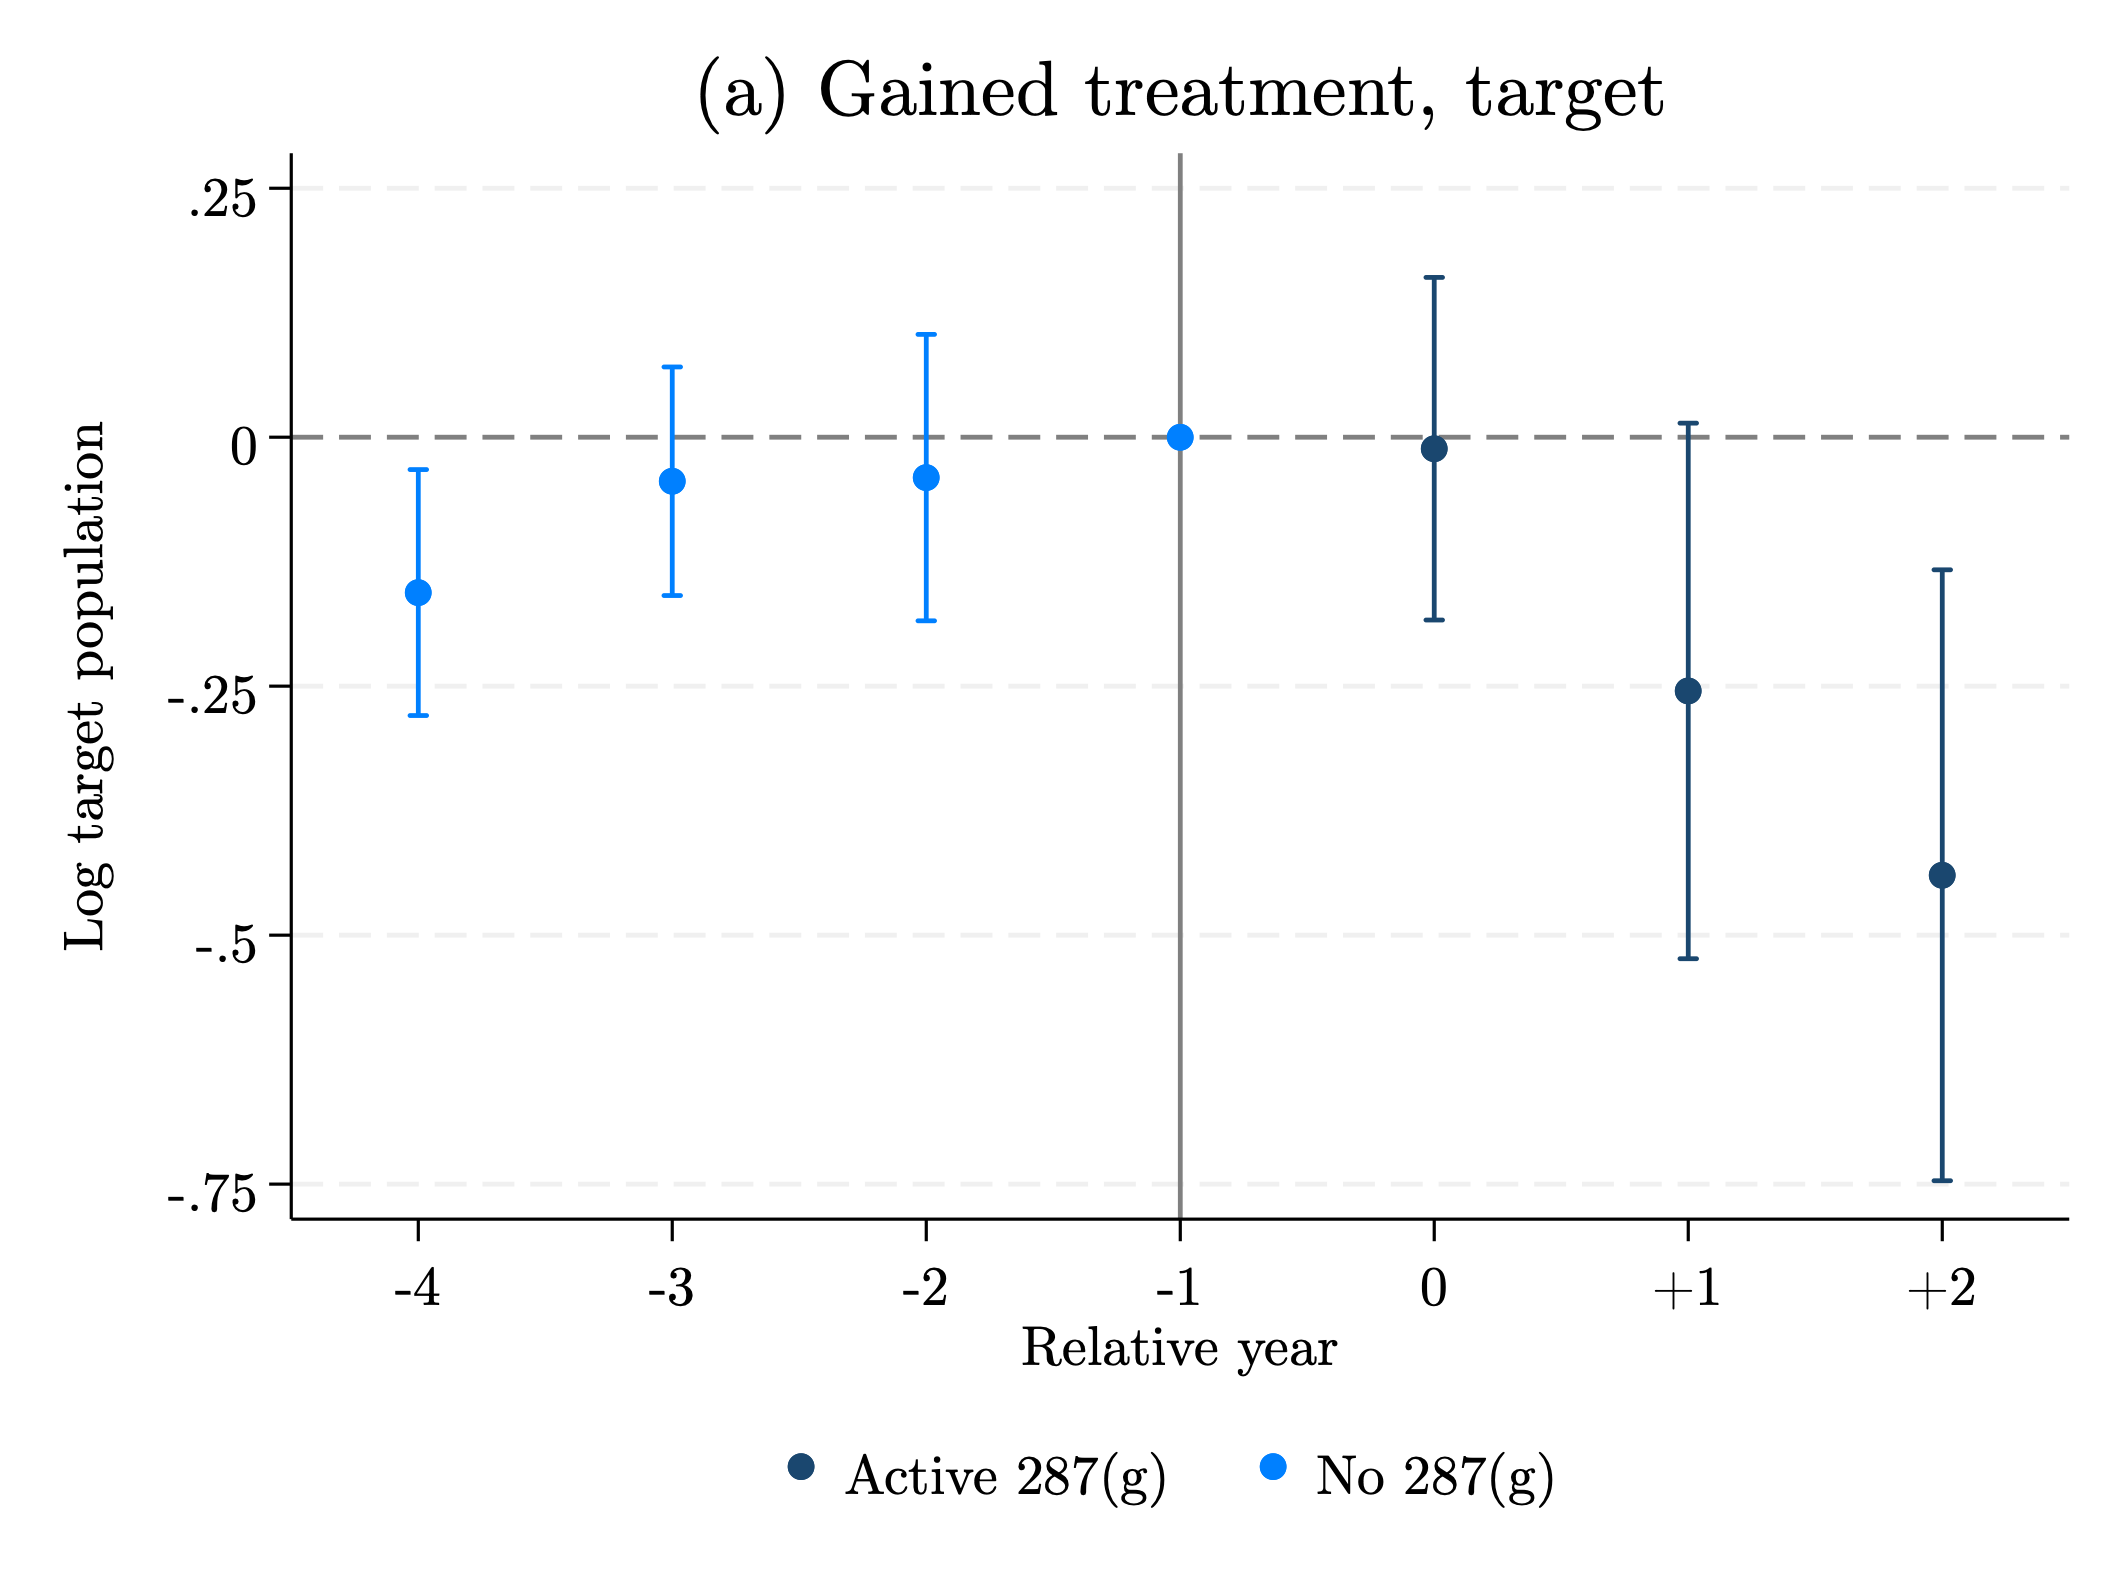
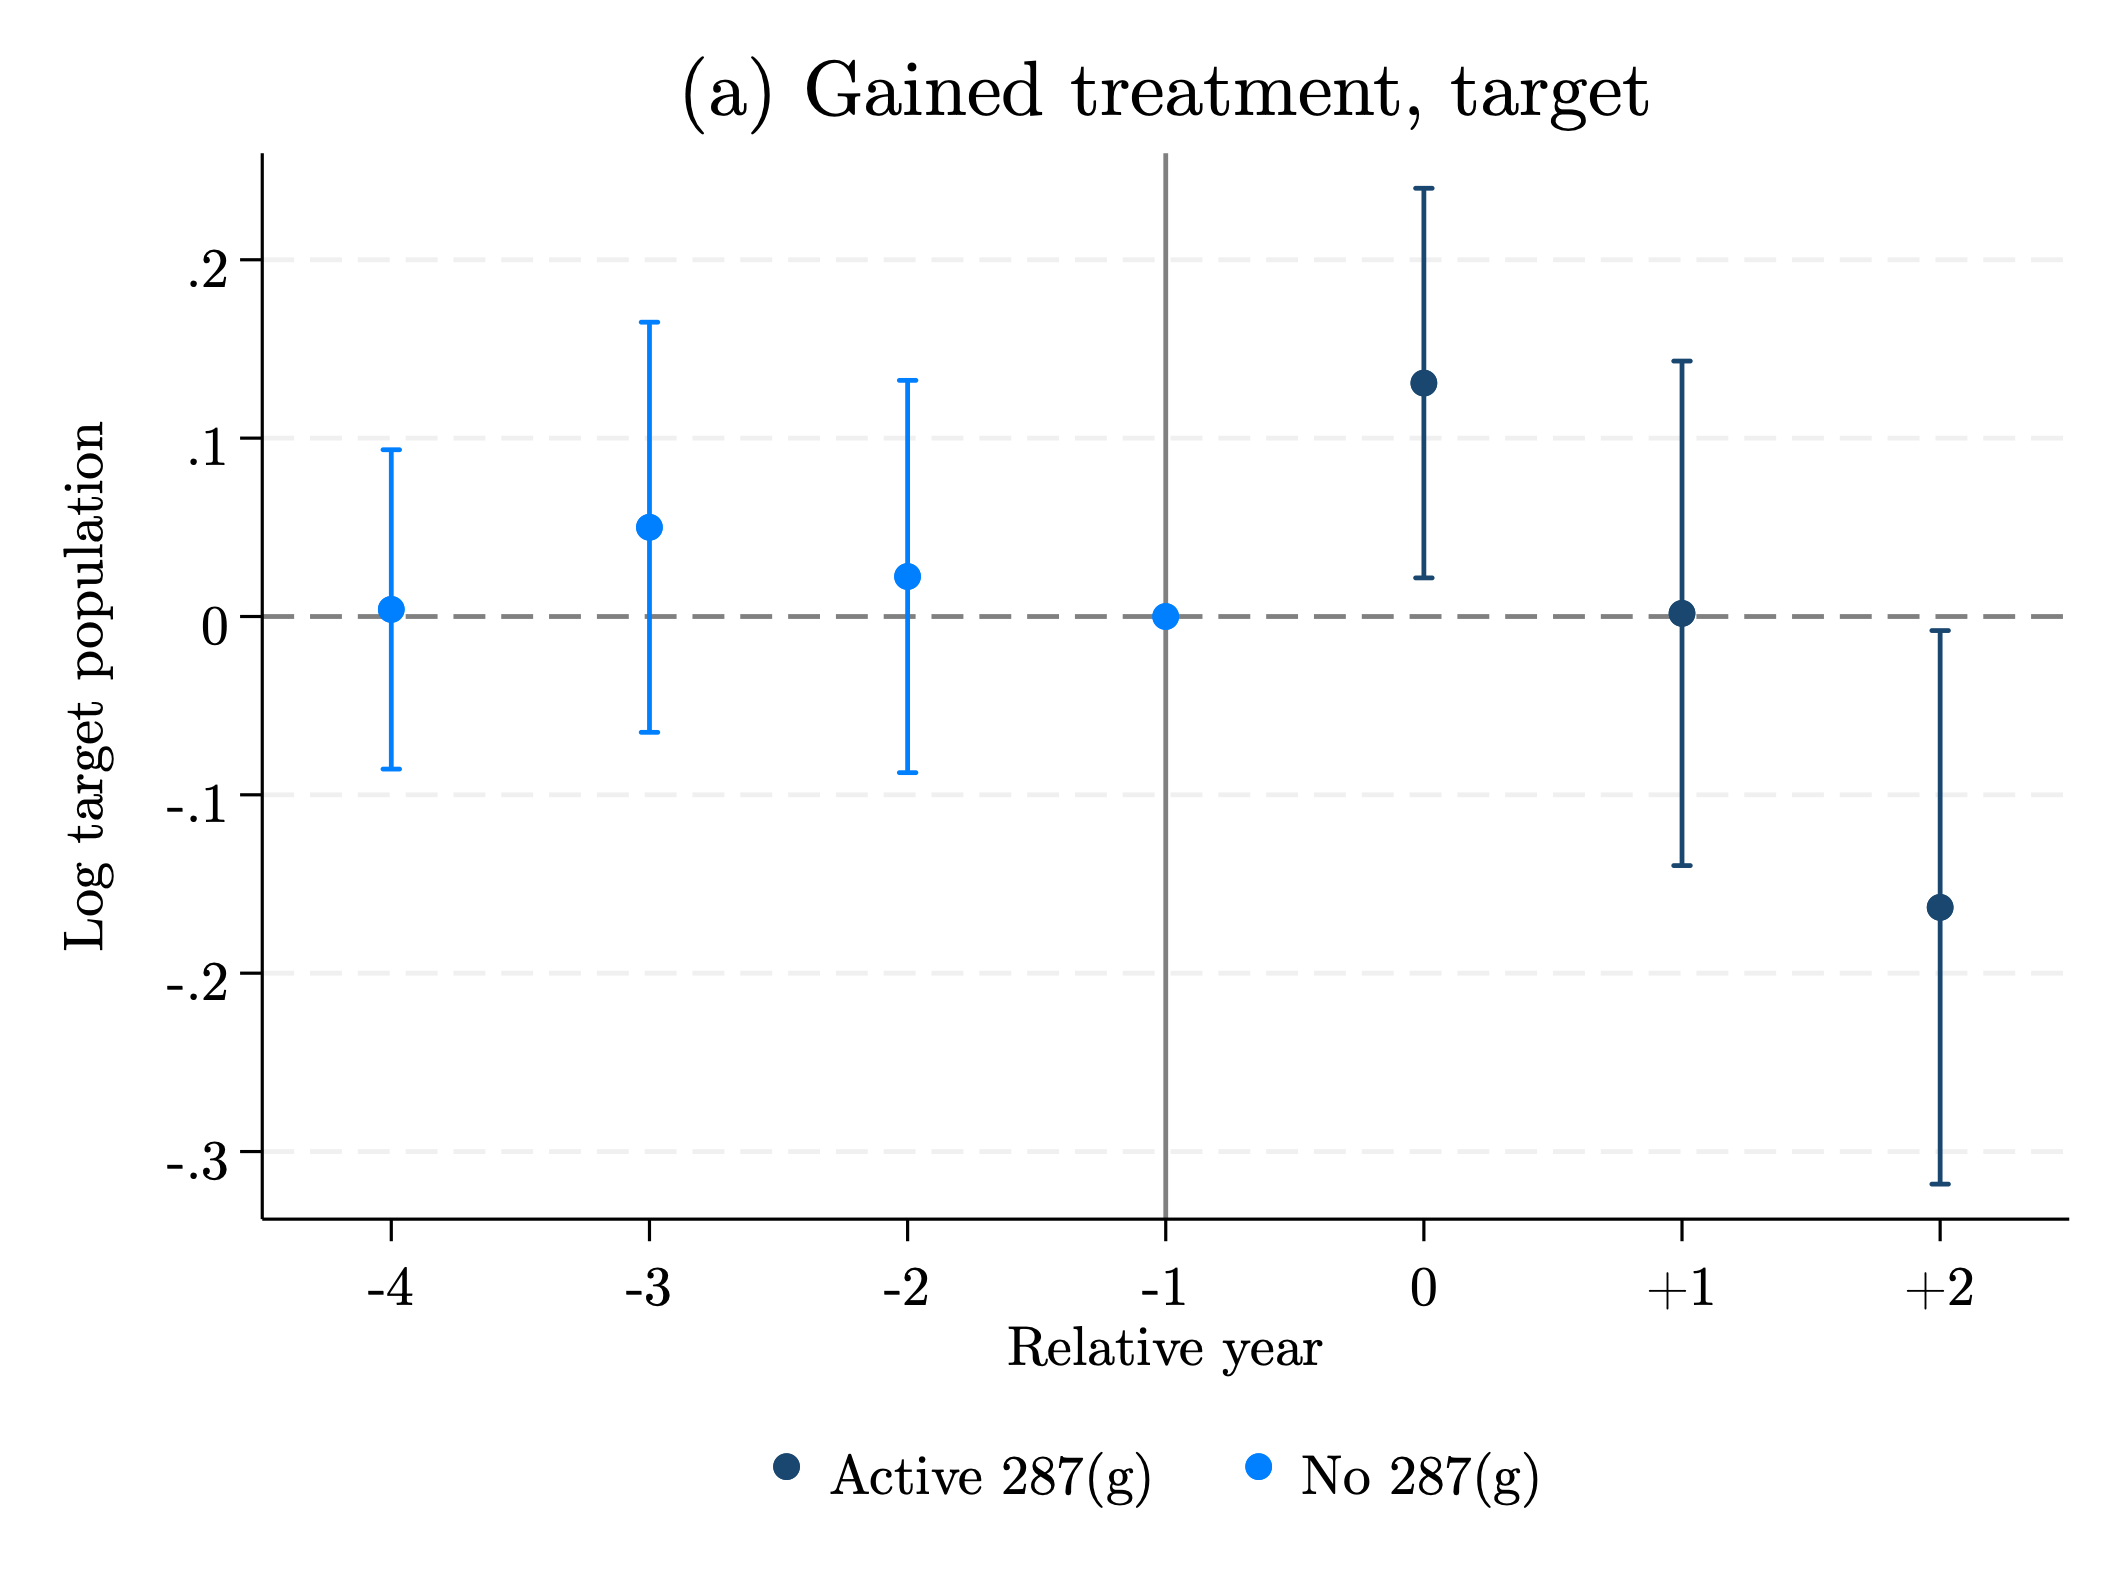
giving up

diff --git a/output/final/balancetable.tex b/output/final/balancetable.tex
@@ -6,43 +6,43 @@
  & (1) & (2) & (3)  \\
 \midrule 
  \textbf{Mobility} & & &   \\
- Moved puma  & 0.12  & 0.13  & -0.01 \\
- & (0.01) & (0.00) & (0.01)\\
- Moved state  & 0.10  & 0.10  & 0.00 \\
- & (0.01) & (0.00) & (0.01)\\
- Moved from abroad  & 0.08  & 0.08  & 0.01 \\
- & (0.00) & (0.00) & (0.01)\\
- \textbf{Demographics and education} & & &   \\
- Age  & 26.34  & 26.14  & 0.19 \\
- & (0.10) & (0.07) & (0.12)\\
- Number of children  & 0.23  & 0.21  & 0.02* \\
- & (0.01) & (0.01) & (0.01)\\
- Race: White  & 0.61  & 0.56  & 0.05*** \\
- & (0.01) & (0.01) & (0.01)\\
- Race: Black  & 0.01  & 0.02  & -0.01*** \\
+ Moved puma  & 0.06  & 0.07  & -0.02*** \\
  & (0.00) & (0.00) & (0.00)\\
- High School  & 0.42  & 0.48  & -0.05*** \\
+ Moved state  & 0.04  & 0.05  & -0.01*** \\
+ & (0.00) & (0.00) & (0.00)\\
+ Moved from abroad  & 0.03  & 0.03  & -0.00 \\
+ & (0.00) & (0.00) & (0.00)\\
+ \textbf{Demographics and education} & & &   \\
+ Age  & 30.05  & 29.59  & 0.46*** \\
+ & (0.05) & (0.04) & (0.07)\\
+ Number of children  & 0.57  & 0.50  & 0.07*** \\
  & (0.01) & (0.01) & (0.01)\\
- Poor English  & 0.70  & 0.67  & 0.03*** \\
- & (0.01) & (0.01) & (0.01)\\
- In School  & 0.08  & 0.08  & -0.01* \\
+ Race: White  & 0.59  & 0.56  & 0.03*** \\
  & (0.00) & (0.00) & (0.01)\\
+ Race: Black  & 0.01  & 0.01  & -0.01*** \\
+ & (0.00) & (0.00) & (0.00)\\
+ High School  & 0.36  & 0.40  & -0.04*** \\
+ & (0.00) & (0.00) & (0.01)\\
+ Poor English  & 0.61  & 0.59  & 0.02*** \\
+ & (0.00) & (0.00) & (0.01)\\
+ In School  & 0.03  & 0.04  & -0.01*** \\
+ & (0.00) & (0.00) & (0.00)\\
  \textbf{Employment and housing} & & &   \\
- Employed  & 0.86  & 0.83  & 0.03*** \\
- & (0.01) & (0.00) & (0.01)\\
- Weeks worked  & 40.52  & 40.94  & -0.42 \\
- & (0.86) & (0.62) & (1.06)\\
- Usual weekly hours worked  & 36.23  & 34.77  & 1.45*** \\
- & (0.25) & (0.19) & (0.32)\\
- Wage income  & 21,723.46  & 21,708.66  & 14.80 \\
- & (277.27) & (222.14) & (355.32)\\
- Owns a home  & 0.15  & 0.16  & -0.01 \\
- & (0.01) & (0.00) & (0.01)\\
- Rent price  & 982.75  & 1,046.10  & -63.35*** \\
- & (8.23) & (7.40) & (11.07)\\
- Mortgage price  & 823.48  & 928.08  & -104.60** \\
- & (34.34) & (25.67) & (42.90)\\
-Sample size & 4,897 & 9,219 & \\
+ Employed  & 0.89  & 0.87  & 0.02*** \\
+ & (0.00) & (0.00) & (0.00)\\
+ Weeks worked  & 42.80  & 43.06  & -0.26 \\
+ & (0.58) & (0.42) & (0.71)\\
+ Usual weekly hours worked  & 37.44  & 36.87  & 0.58*** \\
+ & (0.12) & (0.11) & (0.16)\\
+ Wage income  & 23,089.59  & 23,692.89  & -603.30** \\
+ & (249.06) & (154.70) & (293.21)\\
+ Owns a home  & 0.19  & 0.18  & 0.00 \\
+ & (0.00) & (0.00) & (0.00)\\
+ Rent price  & 977.44  & 1,021.12  & -43.68*** \\
+ & (4.53) & (4.51) & (6.39)\\
+ Mortgage price  & 863.37  & 902.13  & -38.76* \\
+ & (16.03) & (15.44) & (22.26)\\
+Sample size & 16,654 & 25,147 & \\
 \bottomrule
 \bottomrule
 \\

diff --git a/output/final/logtargetpop_did_prop.tex b/output/final/logtargetpop_did_prop.tex
@@ -4,15 +4,15 @@
  & \multicolumn{2}{c}{Target population} & \multicolumn{2}{c}{Placebo population}  \\
 Log population & (1) & (2)  & (3) & (4) \\
 \midrule 
- Gain treatment & -0.0386 & -0.0676 & 0.2129 & 0.1881 \\
- & (0.0832) & (0.0834) & (0.1604) & (0.1580) \\
- Lose treatment & 0.1357** & 0.1327** & -0.1645** & -0.1699** \\
- & (0.0539) & (0.0524) & (0.0691) & (0.0695) \\
+ Gain treatment & 0.0145 & 0.0005 & 0.1877 & 0.1550 \\
+ & (0.1681) & (0.1680) & (0.1305) & (0.1296) \\
+ Lose treatment & -0.0095 & 0.0023 & -0.1278*** & -0.1155** \\
+ & (0.0722) & (0.0718) & (0.0457) & (0.0451) \\
 \\
  Controls &  & X &  & X \\
- \textit{R2} & 0.6195 & 0.6271 & 0.7843 & 0.7908  \\
- Untreated mean & 6.5093 & 6.5093 & 6.9411 & 6.9411  \\
-Sample Size & 4,926 & 4,926 & 4,926 & 4,926  \\
+ \textit{R2} & 0.4980 & 0.5025 & 0.7589 & 0.7648  \\
+ Untreated mean & 6.2827 & 6.2827 & 7.0167 & 7.0167  \\
+Sample Size & 7,905 & 7,905 & 7,905 & 7,905  \\
 \bottomrule
 \bottomrule
 \\

diff --git a/output/final/logtargetpop_reg.tex b/output/final/logtargetpop_reg.tex
@@ -4,13 +4,13 @@
  & \multicolumn{2}{c}{Target population} & \multicolumn{2}{c}{Placebo population}  \\
  Log population & (1) & (2)  & (3) & (4)  \\
 \midrule 
- Treated puma & -0.1250*** & -0.1264*** & 0.1286** & 0.1349** \\
- & (0.0420) & (0.0416) & (0.0537) & (0.0534) \\
+ Treated puma & 0.0420* & 0.0388 & 0.1435*** & 0.1419*** \\
+ & (0.0255) & (0.0249) & (0.0383) & (0.0378) \\
 \\
  Controls &  & X &  & X \\
- \textit{R2} & 0.6303 & 0.6366 & 0.7723 & 0.7785  \\
- Untreated mean & 6.5737 & 6.5737 & 6.7969 & 6.7969  \\
-Sample Size & 4,926 & 4,926 & 4,926 & 4,926  \\
+ \textit{R2} & 0.7741 & 0.7820 & 0.7414 & 0.7474  \\
+ Untreated mean & 7.1712 & 7.1712 & 6.7572 & 6.7572  \\
+Sample Size & 8,084 & 8,084 & 8,084 & 8,084  \\
 \bottomrule
 \bottomrule
 \\
